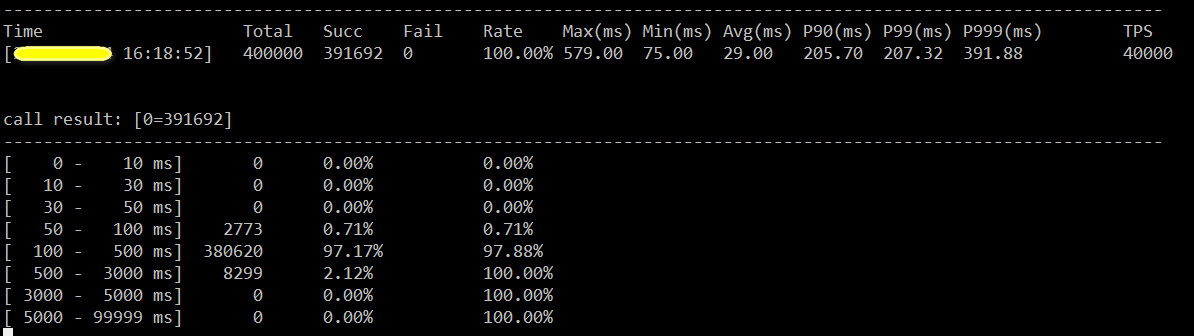
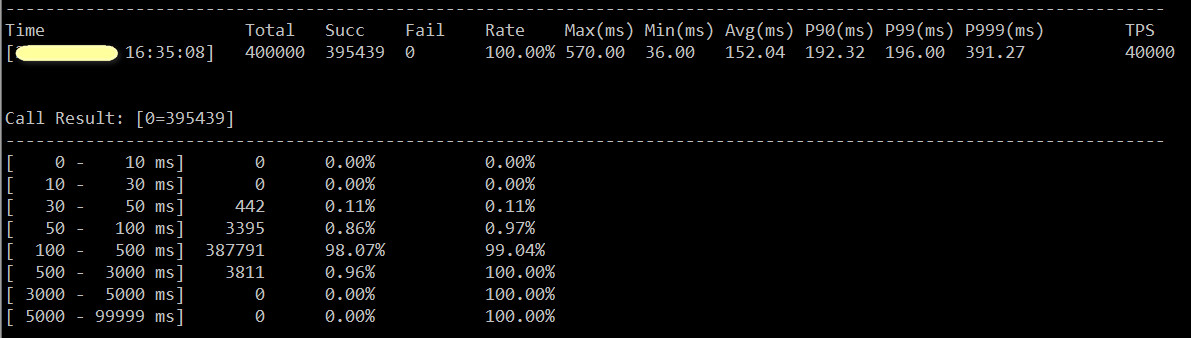
fix monitor bug

diff --git a/Transport.cpp b/Transport.cpp
@@ -96,7 +96,7 @@ namespace bm
         {
             int reqIdx = -1;
             int ret = _proto->decode(_recvBuffer.c_str(), iRecvLen, reqIdx);
-            auto it = _proto->isSupportSeq() ? _sendQueue.begin() : _sendQueue.find(reqIdx);
+            auto it = _proto->isSupportSeq() ? _sendQueue.find(reqIdx) : _sendQueue.begin();
             if (it != _sendQueue.end())
             {
                 Monitor::getInstance()->report(ret, (tCurTime - it->second));

diff --git a/contrib/licote/include/private.h b/contrib/licote/include/private.h
@@ -15,7 +15,6 @@
  * specific language governing permissions and limitations under the License.
  */
 
-
 #ifndef __LICOTE_PRIVATE_H__
 #define __LICOTE_PRIVATE_H__
 
